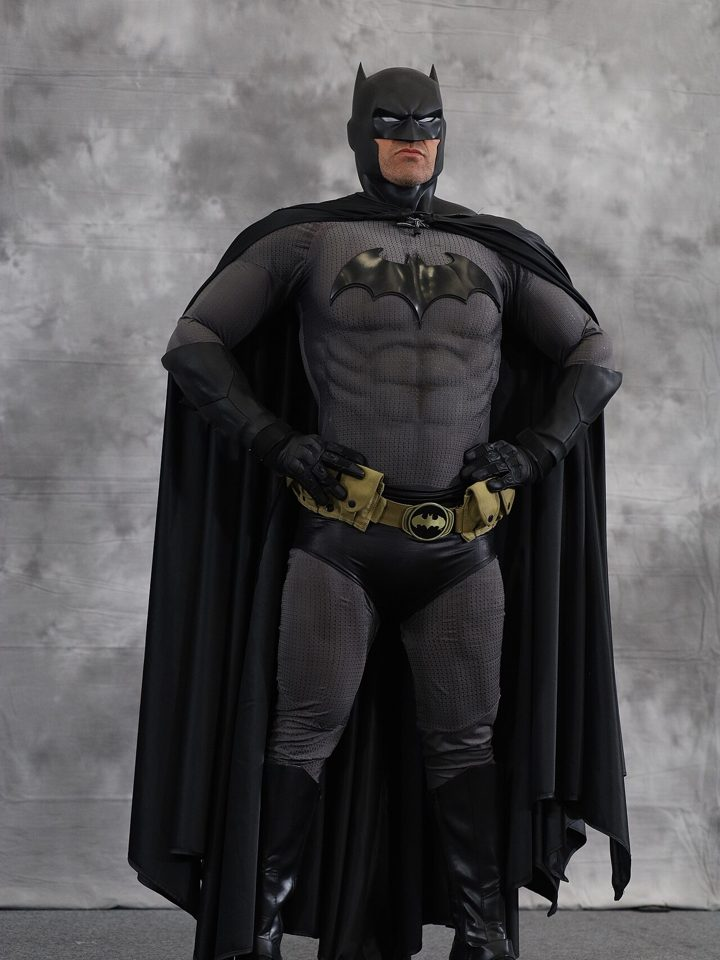
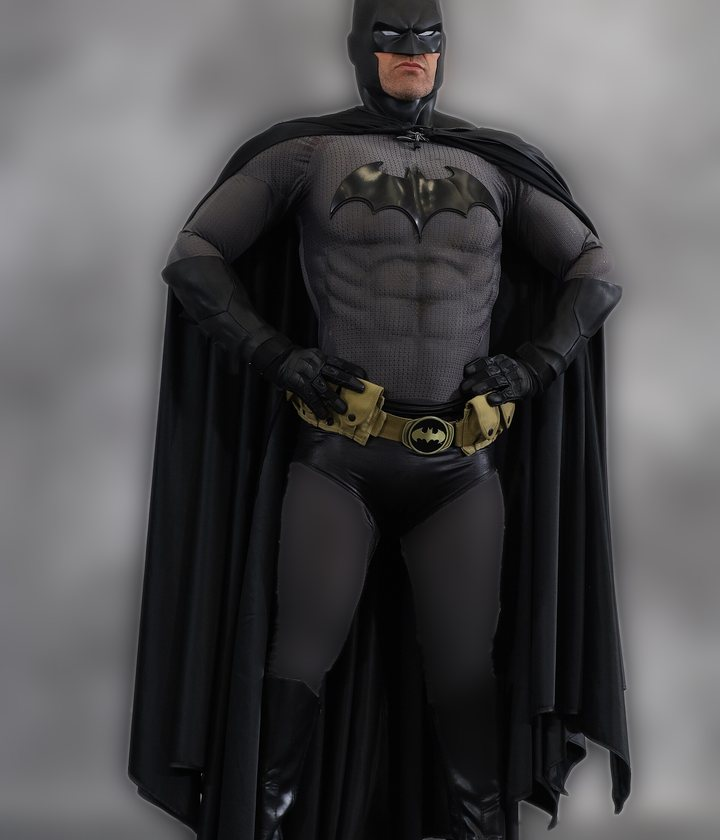
Персонажи: фото по центру с размытым фоном, «Другой персонаж» первым, без Стива и Соника

diff --git a/js/config.js b/js/config.js
@@ -40,21 +40,18 @@ window.BANANA = {
   ],
 
   // Персонажи. У кого есть photo, показывается фото, у остальных цветная карточка.
-  // credit: фото с Wikimedia Commons по открытой лицензии, подпись с автором и лицензией обязательна.
+  // credit: откуда фото (Wikimedia Commons, автор, лицензия). На сайте не выводится по решению Максима от 29.09.2026.
   // Снятые в клубе фото (Миньон, Карамелька) подписи не требуют. Свои фото костюмов лучше чужих: заменить, когда появятся.
   characters: [
-    { id: "minion", name: "Миньон", photo: "img/chars/minion.jpg" },
+    { id: "other", name: "Другой персонаж", note: "Назовите любого, обсудим по телефону", bg: "#FFD43B", other: true },
+    { id: "minion", name: "Миньон", photo: "img/chars/minion-c.jpg" },
     { id: "elsa", name: "Эльза", photo: "img/chars/elsa-kostyum.jpg",
       credit: "Stefan Schubert, CC BY 2.0", creditUrl: "https://commons.wikimedia.org/wiki/File:Frozen_cosplay,_Elsa_walking_in_the_city.jpg" },
-    { id: "karamelka", name: "Карамелька", photo: "img/chars/karamelka.jpg" },
+    { id: "karamelka", name: "Карамелька", photo: "img/chars/karamelka-c.jpg" },
     { id: "spiderman", name: "Человек-паук", photo: "img/chars/spiderman.jpg",
       credit: "Miguel Discart, CC BY-SA 2.0", creditUrl: "https://commons.wikimedia.org/wiki/File:Cosplay_of_Spider-Man_at_Brussels_Comic_Con_2019_(47248209562).jpg" },
-    { id: "sonic", name: "Соник", photo: "img/chars/sonic.jpg",
-      credit: "Sonic and ned, CC BY-SA 2.0", creditUrl: "https://commons.wikimedia.org/wiki/File:Sonic_and_ned.jpg" },
     { id: "ladybug", name: "Леди Баг", photo: "img/chars/ladybug.jpg",
       credit: "Nicholas Moreau, CC BY-SA 4.0", creditUrl: "https://commons.wikimedia.org/wiki/File:Fan_Expo_Canada_2016_Ladybug_IMG_0114.jpg" },
-    { id: "steve", name: "Стив из Майнкрафта", photo: "img/chars/steve.jpg",
-      credit: "Super Festivals, CC BY 2.0", creditUrl: "https://commons.wikimedia.org/wiki/File:Animate!_Miami_2014_-_Cosplay_Photobooth_(Saturday)_370.jpg" },
     { id: "racer", name: "Гонщик", photo: "img/chars/racer.jpg",
       credit: "Rose Abrams, CC BY 4.0", creditUrl: "https://commons.wikimedia.org/wiki/File:HCCD25_-_Lightning_McQueen.jpg" },
     { id: "unicorn", name: "Единорожка", photo: "img/chars/unicorn.jpg",

diff --git a/js/app.js b/js/app.js
@@ -67,7 +67,7 @@
     }
     state.chars.forEach(function (id, i) {
       var c = byId(C.characters, id), included = p && i < p.animators;
-      lines.push({ name: "Аниматор: " + c.name, price: included ? 0 : C.animatorPrice, from: !included, inpkg: included, rm: "char:" + id });
+      lines.push({ name: c.other ? "Аниматор: другой персонаж, обсудим по телефону" : "Аниматор: " + c.name, price: included ? 0 : C.animatorPrice, from: !included, inpkg: included, rm: "char:" + id });
       if (!included) total += C.animatorPrice;
     });
     if (p && state.chars.length < p.animators) {
@@ -180,13 +180,9 @@
       if (c.photo) {
         var img = el("img"); img.src = c.photo; img.alt = c.credit ? "Костюм персонажа " + c.name : c.name + ", аниматор Banana Club"; img.loading = "lazy"; img.width = 360; img.height = 480;
         pic.appendChild(img);
-        if (c.credit) {
-          var cr = el("a", "char-credit", "Фото: " + esc(c.credit));
-          cr.href = c.creditUrl; cr.target = "_blank"; cr.rel = "noopener";
-          pic.appendChild(cr);
-        }
+
       } else {
-        var art = el("div", "char-art", esc(c.name));
+        var art = el("div", "char-art" + (c.other ? " char-other" : ""), esc(c.other ? "Любой персонаж" : c.name) + (c.note ? '<small class="char-note">' + esc(c.note) + "</small>" : ""));
         art.style.setProperty("--c", c.bg);
         pic.appendChild(art);
       }

diff --git a/css/style.css b/css/style.css
@@ -304,8 +304,6 @@ h3 { font-family: var(--f-body); font-weight: 700; font-size: 19px; line-height:
 .char.is-on { box-shadow: inset 0 0 0 2px var(--banan), 0 20px 44px -22px rgba(255,203,46,.7); }
 .char-pic { aspect-ratio: 3 / 3.5; overflow: hidden; position: relative; }
 .char-pic img { width: 100%; height: 100%; object-fit: cover; }
-.char-credit { position: absolute; left: 0; right: 0; bottom: 0; padding: 14px 8px 4px; font-size: 10px; line-height: 1.2; color: rgba(255,255,255,.8); background: linear-gradient(transparent, rgba(0,0,0,.55)); text-decoration: none; white-space: nowrap; overflow: hidden; text-overflow: ellipsis; }
-.char-credit:hover { color: #fff; text-decoration: underline; }
 /* карточка персонажа без фото: фирменный узор из пузырей */
 .char-art {
   width: 100%; height: 100%;
@@ -332,6 +330,8 @@ h3 { font-family: var(--f-body); font-weight: 700; font-size: 19px; line-height:
     radial-gradient(circle at 60% 76%, rgba(255,255,255,.12) 0 15%, transparent 15.5%),
     radial-gradient(circle at 20% 70%, rgba(255,255,255,.07) 0 10%, transparent 10.5%);
 }
+.char-note { display: block; margin-top: 10px; font: 500 14px/1.35 var(--f-body, inherit); opacity: .85; }
+.char-other { background-color: #3a2a12; }
 .char-body {
   padding: 16px 16px 18px;
   display: grid; gap: 12px;
